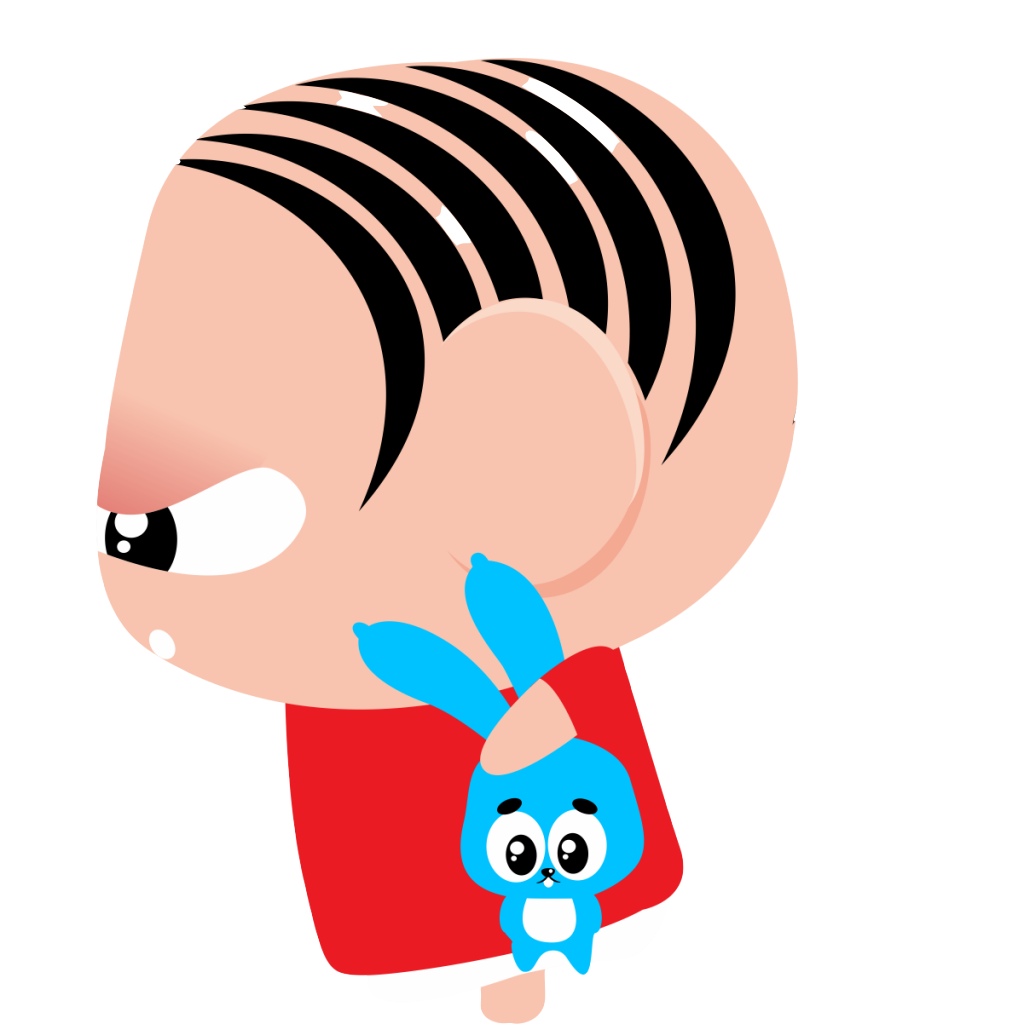
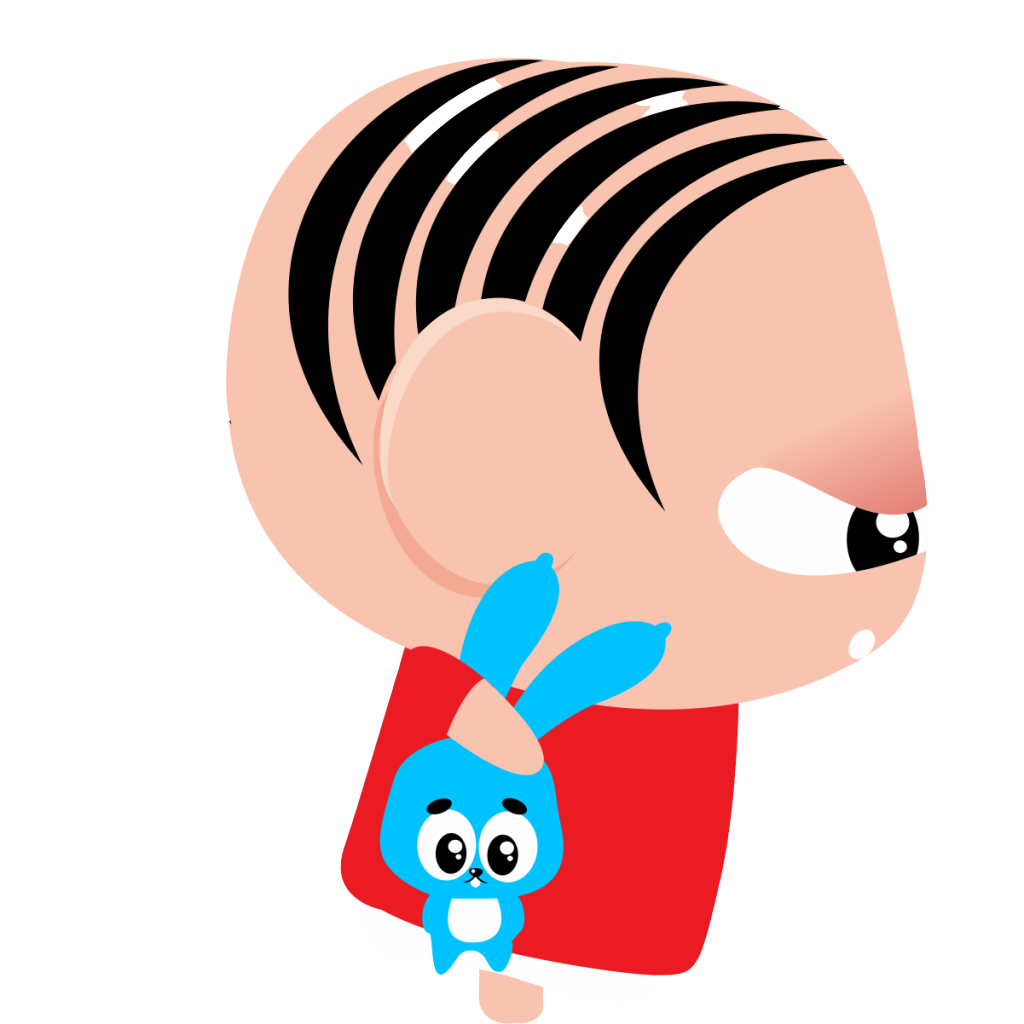
upte

diff --git a/jogoclass.js b/jogoclass.js
@@ -404,11 +404,11 @@ function attBoost(player) {
     boostedPlayer = player2
   }
   console.log(boostedPlayer.rageimg)
-  // document.getElementById(`img-player${player}`).setAttribute('src', `.${boostedPlayer.rageimg}`);
+  document.querySelector(`#img-player${player}`).setAttribute('src', boostedPlayer.rageimg);
   boostedPlayer.st = Math.round(boostedPlayer.st * 1.25);
   boostedPlayer.agi = Math.round(boostedPlayer.agi * 1.25);
   boostedPlayer.int = Math.round(boostedPlayer.int * 1.25);
-  dmgUp()
+  boostedPlayer.dmgUp()
   boostedPlayer.hpactual += Math.round(boostedPlayer.hp * 0.25);
   updateHP(boostedPlayer);
   boostedPlayer.mpactual += Math.round(boostedPlayer.mp * 0.25);

diff --git a/styles.css b/styles.css
@@ -91,6 +91,11 @@
     height: 200px;
     width: auto;
 }
+#escolhap2 {
+    height: 200px;
+    width: auto;
+    transform: scaleX(-1);
+}
 
 .poke {
     background-color: #faeb1fda;
@@ -246,7 +251,9 @@ main {
     position: relative;
     z-index: 1;
 }
-
+#img-player2 {
+    transform: scaleX(-1);
+}
 .status-player {
     background: #FFFFFFAA;
     display: flex;
